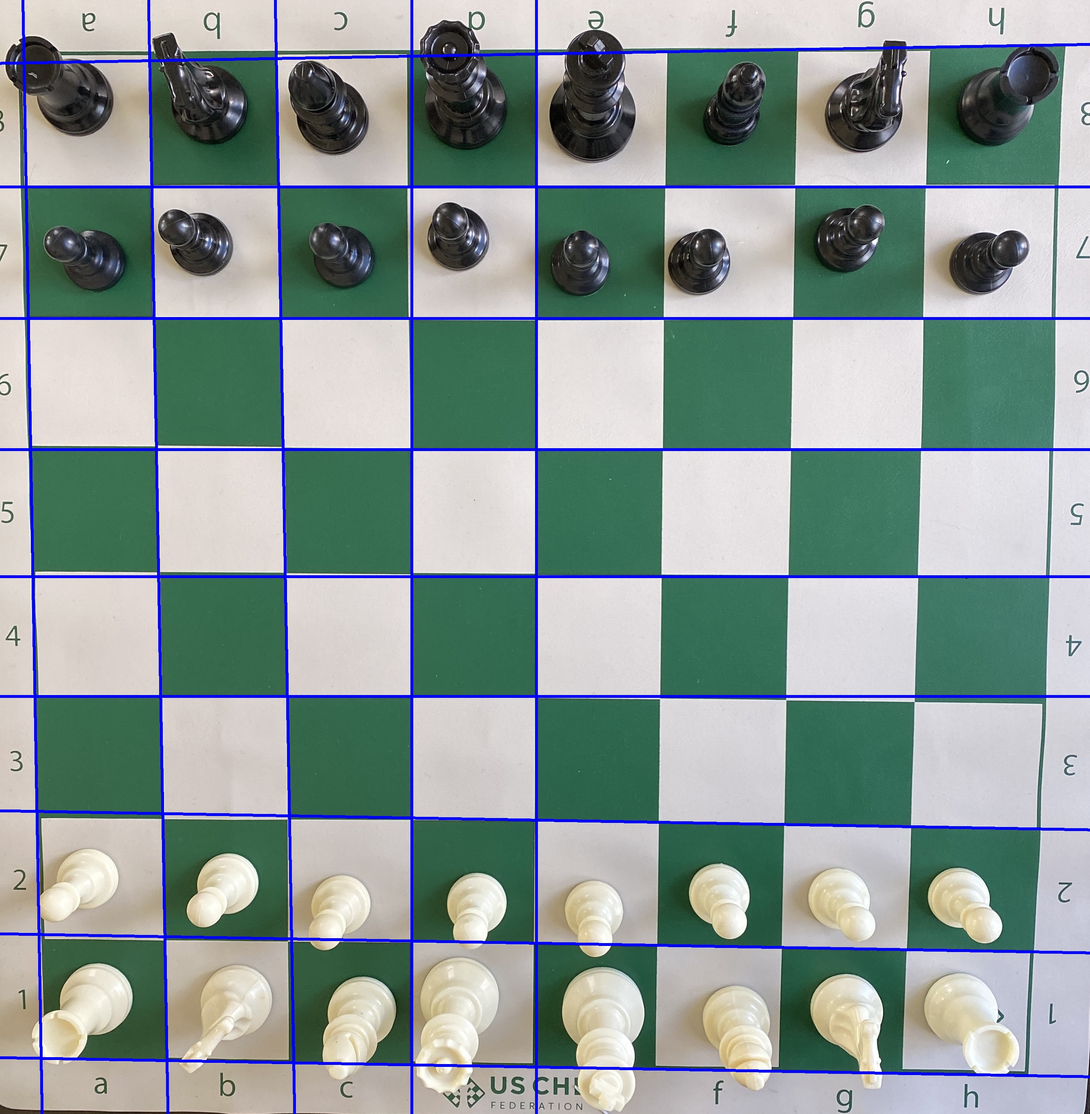
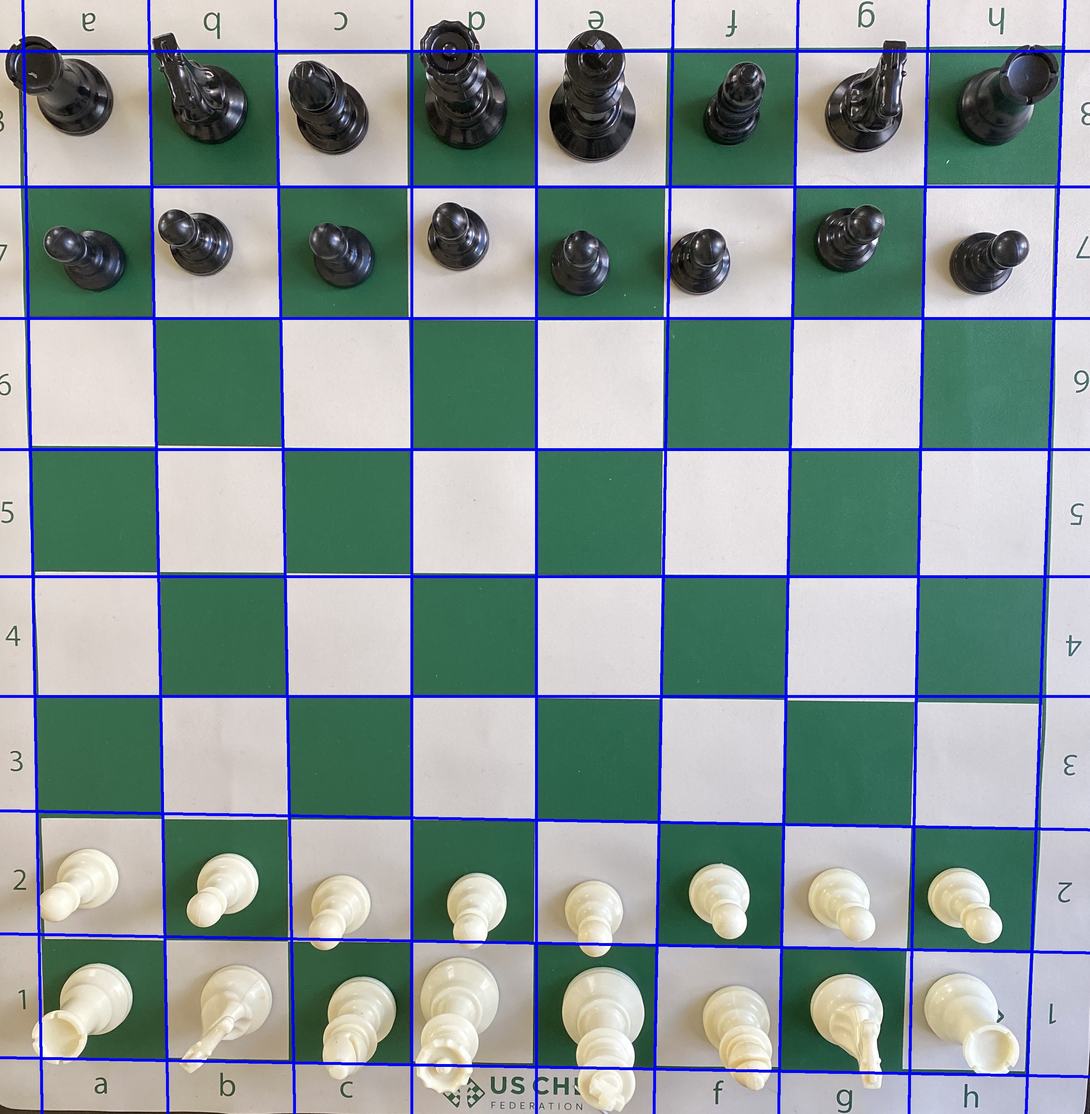
coding_club_commit

diff --git a/check4mate (python app)/main.py b/check4mate (python app)/main.py
@@ -69,9 +69,9 @@ for r_theta in lines:
     #Find whether line is closer to horizontal or vertical
     if x1-x2 == 0:
         linesV.append([(x1, y1), (x2, y2)])
-    elif (y1 - y2) / (x1 - x2) < 0.2:  # is a horizontal line
+    elif abs((y1 - y2) / (x1 - x2)) < 0.2:  # is a horizontal line
         linesH.append([(x1, y1), (x2, y2)])
-    elif (y1 - y2) / (x1 - x2) > 1.5:  # is a vertical line
+    elif abs((y1 - y2) / (x1 - x2)) > 1.5:  # is a vertical line
         linesV.append([(x1, y1), (x2, y2)])
     # cv2.line(img, (x1, y1), (x2, y2), (0, 0, 255), 3)
 
@@ -81,43 +81,6 @@ all_lines = img.copy()
 for line in linesV + linesH:
     cv2.line(all_lines, line[0], line[1], (255, 0, 0), 6)
 cv2.imwrite('houghlines.jpg', all_lines)
-all_lines = img.copy()
-for line in linesH:
-    cv2.line(all_lines, line[0], line[1], (255, 0, 0), 6)
-cv2.imwrite('oghorz.jpg', all_lines)
-all_lines = img.copy()
-for line in linesV:
-    cv2.line(all_lines, line[0], line[1], (255, 0, 0), 6)
-cv2.imwrite('ogverts.jpg', all_lines)
-
-# NEW STRATEGY FOR FINDING THE CORRECT 18 LINES
-# def test_line(currentLines, tLine, X):
-#     for oLine in currentLines:
-#         dis = abs(((tLine[0][0] + tLine[1][0]) / 2) - ((oLine[0][0] + oLine[1][0])/2))
-#         if dis < 20 or \
-#                 (dis > X and abs((X/dis) - round(X/dis)) > 0.1):
-#             return False
-#         if dis < X or X == 0:
-#             if abs((X / dis) - Fraction(X / dis).limit_denominator()) > 0.05:
-#                 return False
-#             X = dis
-#     return X
-#
-#
-# def recursive_line_test(cLines, tLines, X):
-#     for i, tLine in enumerate(tLines):
-#         tempX = test_line(cLines, tLine, X)
-#         if not not tempX:   # trust me it makes sense
-#             if cLines >= 4:
-#
-#             recursive_line_test(cLines+tLine, tLines.pop(i), tempX)
-#             return len(cLines) + 1
-#
-#
-# for i in range(len(linesV)):
-#     for j in range(i+1, len(linesV)):
-#         if not i == j:
-#             result = recursive_line_test(linesV[i], linesV.pop(i), 0)
 
 # sort lines greatest to least:
 tempH = [[(0, -100), (0, -100)]]
@@ -217,45 +180,45 @@ for x_line in range(9):
 
 cv2.imwrite('intersections.jpg', img)
 
-# split_images = [] # will end up being a list of 64 images, each one a square of the board:
-# # 0  1  2  3  4  5  6  7
-# # 8  9  10 11 12 13 14 15
-# # 16 17 18 19 20 21 22 23
-# # 24 25 26 27 28 29 30 31
-# # 32 33 34 35 36 37 38 39
-# # 40 41 42 43 44 45 46 47
-# # 48 49 50 51 52 53 54 55
-# # 56 57 58 59 60 61 62 63
-#
-# # Using intersection points, segment into 64 different images and warp crop them into squares.
-# # Then add to split_images...
-# for i in range(64):
-#     # pts1 = np.array([
-#     #     intersection_points[math.floor(i / 8)][i % 8],              #top left
-#     #     intersection_points[math.floor(i / 8)][(i % 8) + 1],        #top right
-#     #     intersection_points[math.floor(i / 8) + 1][(i % 8) + 1],    #bottom right
-#     #     intersection_points[math.floor(i / 8) + 1][(i % 8)]         #bottom left
-#     # ], np.int32)
-#     #
-#
-#     #
-#     # pts2 = np.array([[0,0], [224, 0], [224, 0], [224, 224]], np.int32)
-#     #
-#     # matrix = cv2.getPerspectiveTransform(pts1, pts2)
-#     # #split_images.append(cv2.warpPerspective(img, matrix, (224, 224)))
-#     # cv2.imshow(f'Image {i}', cv2.warpPerspective(img, matrix, (224, 224)))
-#
-#     pts1 = np.float32([intersection_points[math.floor(i / 8)][i % 8], intersection_points[math.floor(i / 8)][(i % 8) + 1],
-#                        intersection_points[math.floor(i / 8) + 1][(i % 8)], intersection_points[math.floor(i / 8) + 1][(i % 8) + 1]])
-#     pts2 = np.float32([[224, 224], [0, 224],
-#                        [224, 0], [0, 0]])
-#
-#     # Apply Perspective Transform Algorithm
-#     matrix = cv2.getPerspectiveTransform(pts1, pts2)
-#     split_images.append(cv2.warpPerspective(gray, matrix, (224, 224)))
-#
-#     cv2.imshow(f'Square {i}', split_images[i])
-#     cv2.waitKey(0)
+split_images = []   # will end up being a list of 64 images, each one a square of the board:
+# 0  1  2  3  4  5  6  7
+# 8  9  10 11 12 13 14 15
+# 16 17 18 19 20 21 22 23
+# 24 25 26 27 28 29 30 31
+# 32 33 34 35 36 37 38 39
+# 40 41 42 43 44 45 46 47
+# 48 49 50 51 52 53 54 55
+# 56 57 58 59 60 61 62 63
+
+# Using intersection points, segment into 64 different images and warp crop them into squares.
+# Then add to split_images...
+for i in range(64):
+    pts1 = np.array([
+        intersection_points[math.floor(i / 8)][i % 8],              #top left
+        intersection_points[math.floor(i / 8)][(i % 8) + 1],        #top right
+        intersection_points[math.floor(i / 8) + 1][(i % 8) + 1],    #bottom right
+        intersection_points[math.floor(i / 8) + 1][(i % 8)]         #bottom left
+    ], np.int32)
+
+
+    #
+    # pts2 = np.array([[0,0], [224, 0], [224, 0], [224, 224]], np.int32)
+    #
+    # matrix = cv2.getPerspectiveTransform(pts1, pts2)
+    # #split_images.append(cv2.warpPerspective(img, matrix, (224, 224)))
+    # cv2.imshow(f'Image {i}', cv2.warpPerspective(img, matrix, (224, 224)))
+
+    pts1 = np.float32([intersection_points[math.floor(i / 8)][i % 8], intersection_points[math.floor(i / 8)][(i % 8) + 1],
+                       intersection_points[math.floor(i / 8) + 1][(i % 8)], intersection_points[math.floor(i / 8) + 1][(i % 8) + 1]])
+    pts2 = np.float32([[224, 224], [0, 224],
+                       [224, 0], [0, 0]])
+
+    # Apply Perspective Transform Algorithm
+    matrix = cv2.getPerspectiveTransform(pts1, pts2)
+    split_images.append(cv2.warpPerspective(gray, matrix, (224, 224)))
+
+    cv2.imshow(f'Square {i}', split_images[i])
+    cv2.waitKey(0)
 #
 #     # test commit change :)
 
